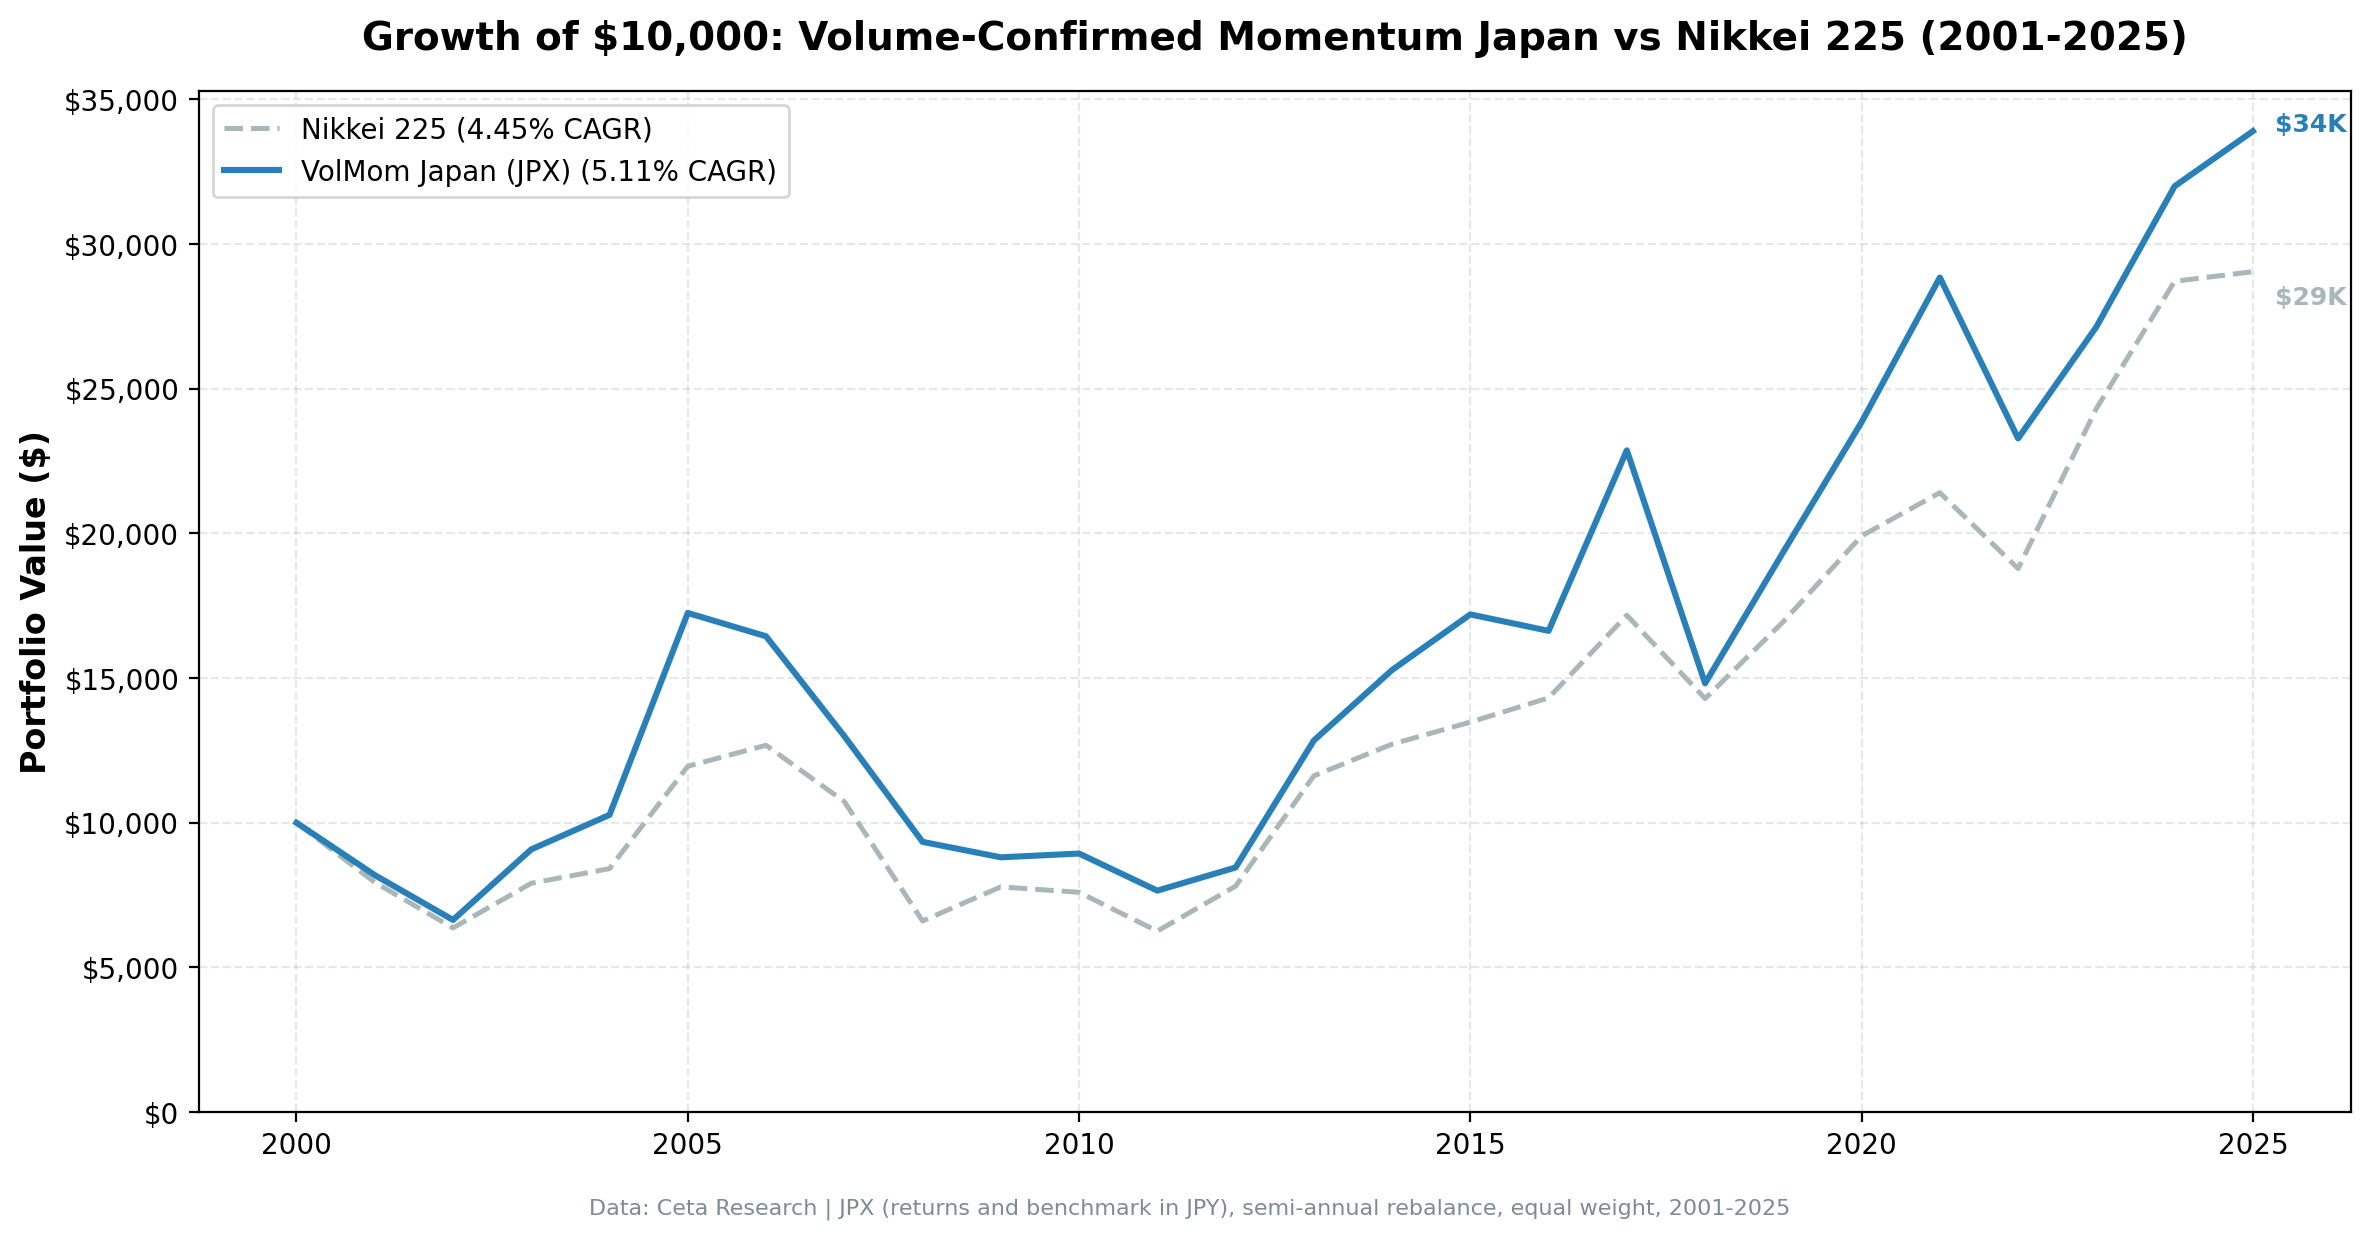
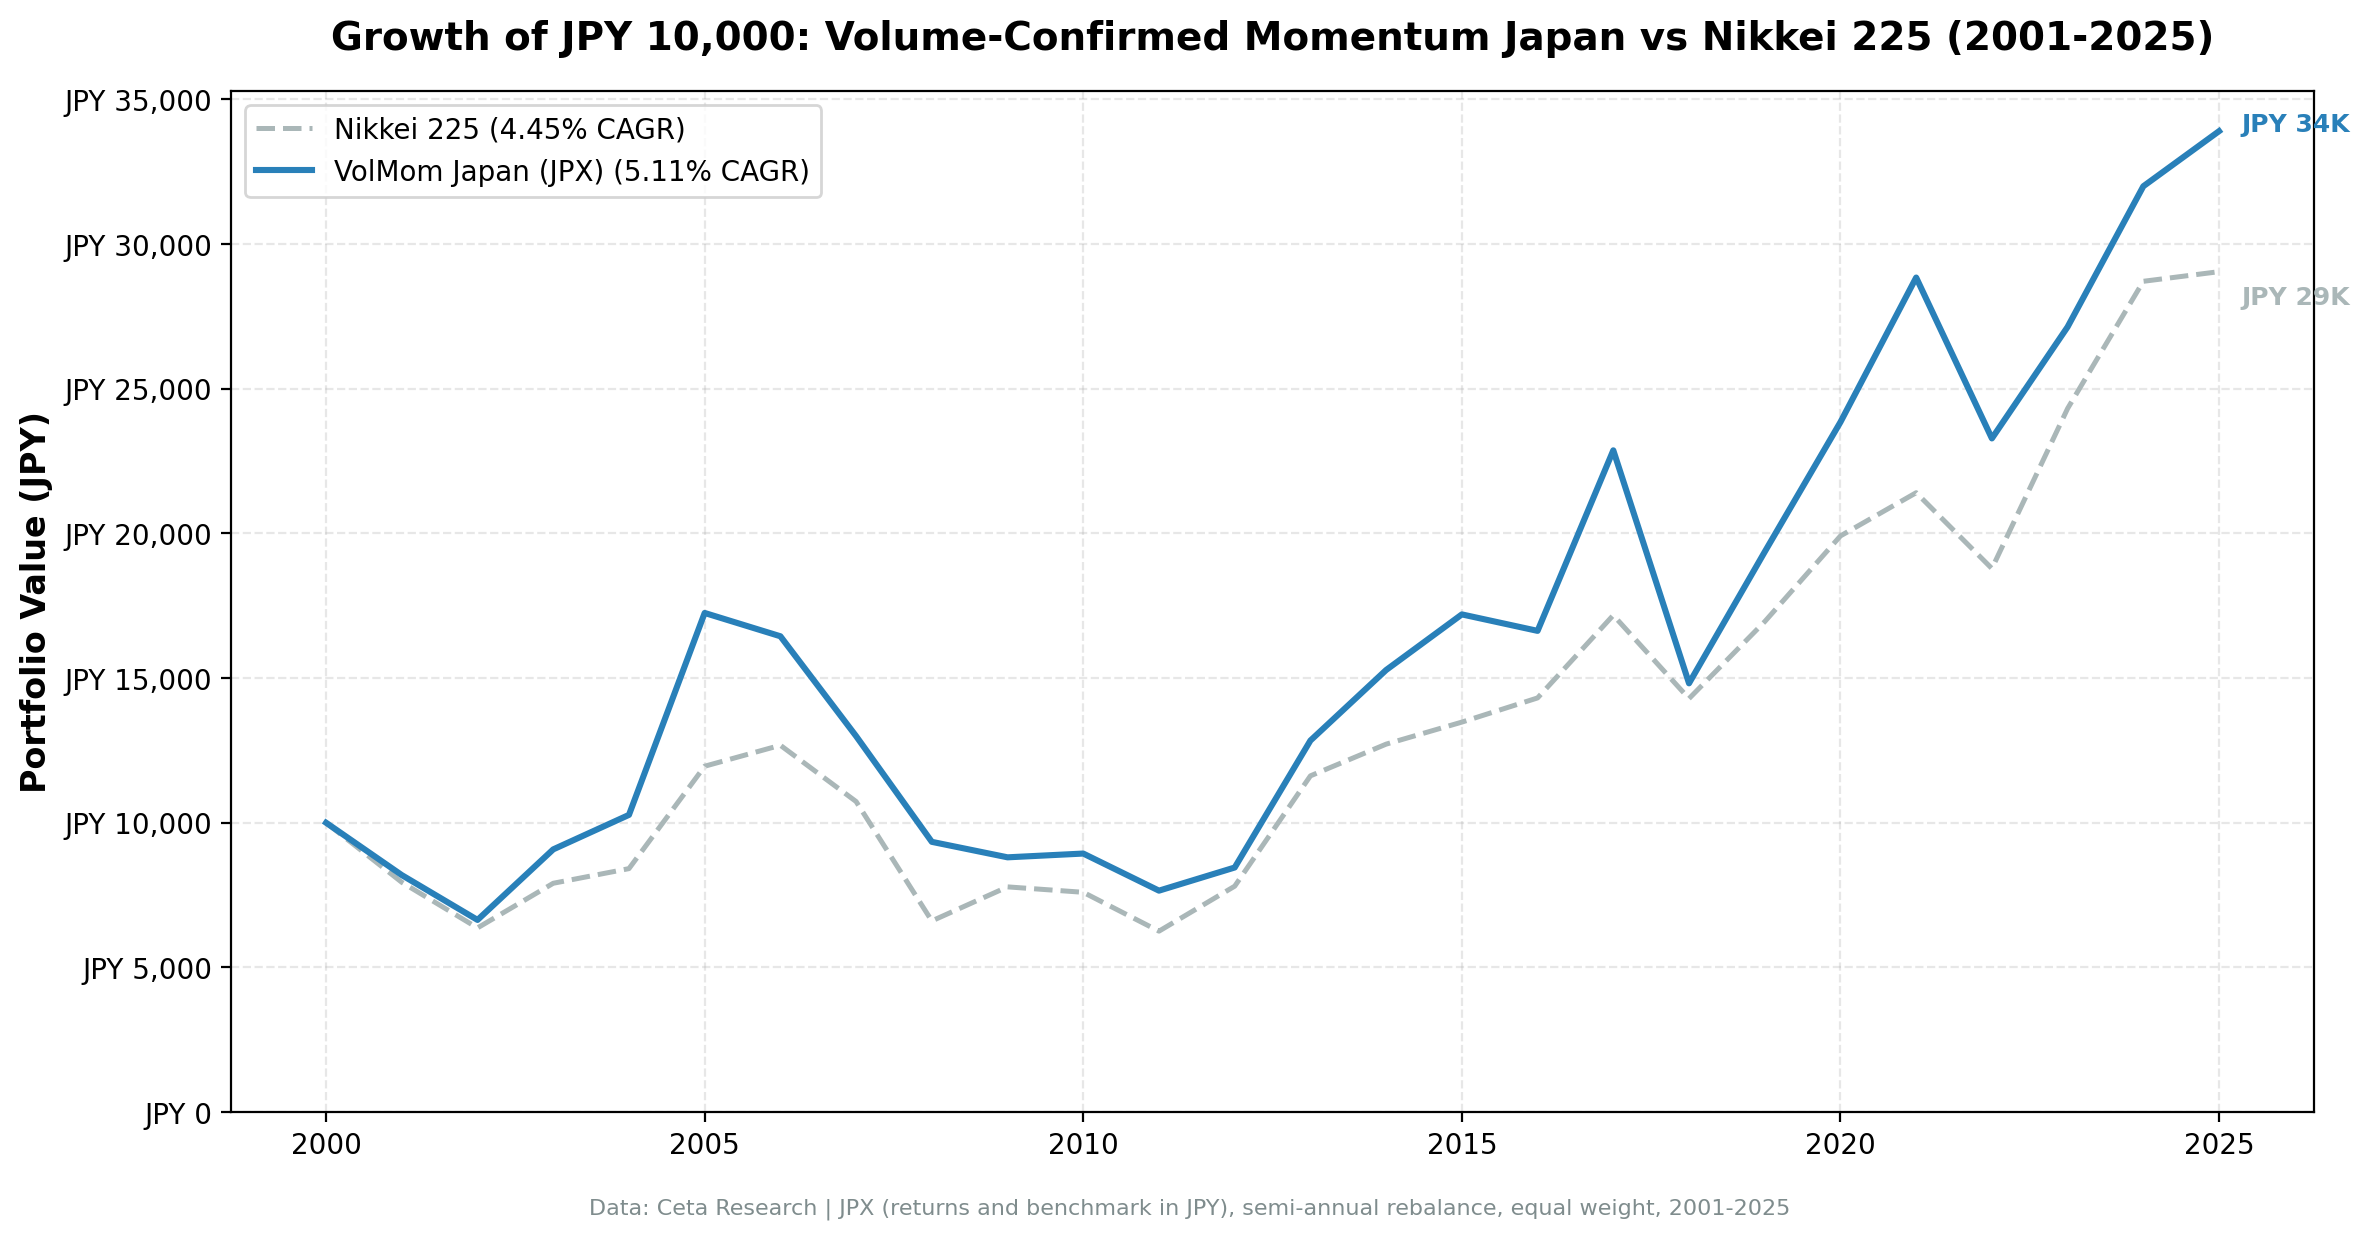
Correct the inverted Lee & Swaminathan citation and localize volume-confirmed charts
The README and backtest.py docstring still said high-volume momentum persists
longer. The paper says the opposite on the long leg: high-volume winners reverse
faster and low-volume winners persist. The content repo was corrected on
2026-09-13; this brings the public repo in line and notes that the backtest tests
the practitioner 3M/12M volume rule, not the paper's turnover ranking.

Regenerates the eight non-US cumulative-growth charts. 3f32296 localized their
currency labels in code but the PNGs were never rebuilt, so India, Sweden, UK and
Canada still showed "Growth of $10,000" on live posts. No result changed; the
code and framework are unchanged since the 2026-09-12 rerun (ddcf265).

diff --git a/volume-confirmed-momentum/backtest.py b/volume-confirmed-momentum/backtest.py
@@ -9,7 +9,7 @@ Signal:
   - 12M price return (skip last month): (price at T-30d) / (price at T-365d) - 1
     Skip-last-month avoids the well-documented short-term reversal in momentum stocks.
   - Volume confirmation: 3-month avg daily volume > 12-month avg daily volume (vol_ratio > 1.0)
-    Rising volume confirms institutional buying interest behind the price trend.
+    Practitioner rule: rising volume is taken to confirm the trend (untested here; no control arm).
   - Minimal quality gate: netIncome > 0 AND operatingCashFlow > 0 (FY, 45-day lag)
     Eliminates speculative momentum in money-losing stocks.
   - Market cap > exchange threshold (standard mid-to-large cap filter)
@@ -20,8 +20,9 @@ Rebalancing: Semi-annual (Jan 1, Jul 1), 2001-2025.
 Academic basis:
   Lee, C.M.C. & Swaminathan, B. (2000). "Price Momentum and Trading Volume."
   Journal of Finance, 55(5), 2017-2069.
-  Key finding: High-volume momentum stocks sustain returns longer and exhibit
-  stronger momentum. Low-volume momentum reverses faster.
+  Key finding (long leg): high-volume winners reverse FASTER; low-volume winners
+  persist longer. This strategy buys the leg the paper flags as late-stage, and
+  tests the practitioner rule (3M/12M raw volume ratio), not the paper (turnover).
 
 Usage:
     python3 volume-confirmed-momentum/backtest.py                          # US default

diff --git a/volume-confirmed-momentum/README.md b/volume-confirmed-momentum/README.md
@@ -1,6 +1,6 @@
 # Volume-Confirmed Momentum
 
-A momentum strategy that filters for stocks with strong 12-month price performance *and* rising trading volume. Volume confirmation identifies momentum backed by real buying activity, not low-conviction price drift.
+A momentum strategy that filters for stocks with strong 12-month price performance *and* rising trading volume. The practitioner idea is that rising volume confirms a trend; see Academic Basis for what the cited paper actually found.
 
 ## Strategy
 
@@ -18,7 +18,9 @@ A momentum strategy that filters for stocks with strong 12-month price performan
 
 Lee, C.M.C. & Swaminathan, B. (2000). *Price Momentum and Trading Volume.* Journal of Finance, 55(5), 2017–2069.
 
-Key finding: High-volume momentum stocks sustain their outperformance significantly longer than low-volume momentum stocks. Volume acts as a signal of informed institutional participation — when price rises on above-average volume, the move is more likely to continue.
+The paper is usually cited in support of volume confirmation, but on the long leg it points the other way: "high (low) volume winners (losers) experience faster reversals," and "among winners, low volume stocks show greater persistence in price momentum." It classes high-volume winners as late-stage momentum. The winners-minus-losers spread is wider among high-volume stocks at intermediate horizons, but that is a long-short result driven partly by the loser leg, and the authors say it "is not because volume 'fuels' price momentum."
+
+This backtest doesn't test the paper. L&S ranked NYSE/AMEX stocks on turnover; this strategy uses a raw 3M/12M volume ratio across NYSE, NASDAQ and AMEX, long-only, held six months. It tests the practitioner rule that grew out of the paper.
 
 ## Running the Backtest
 
